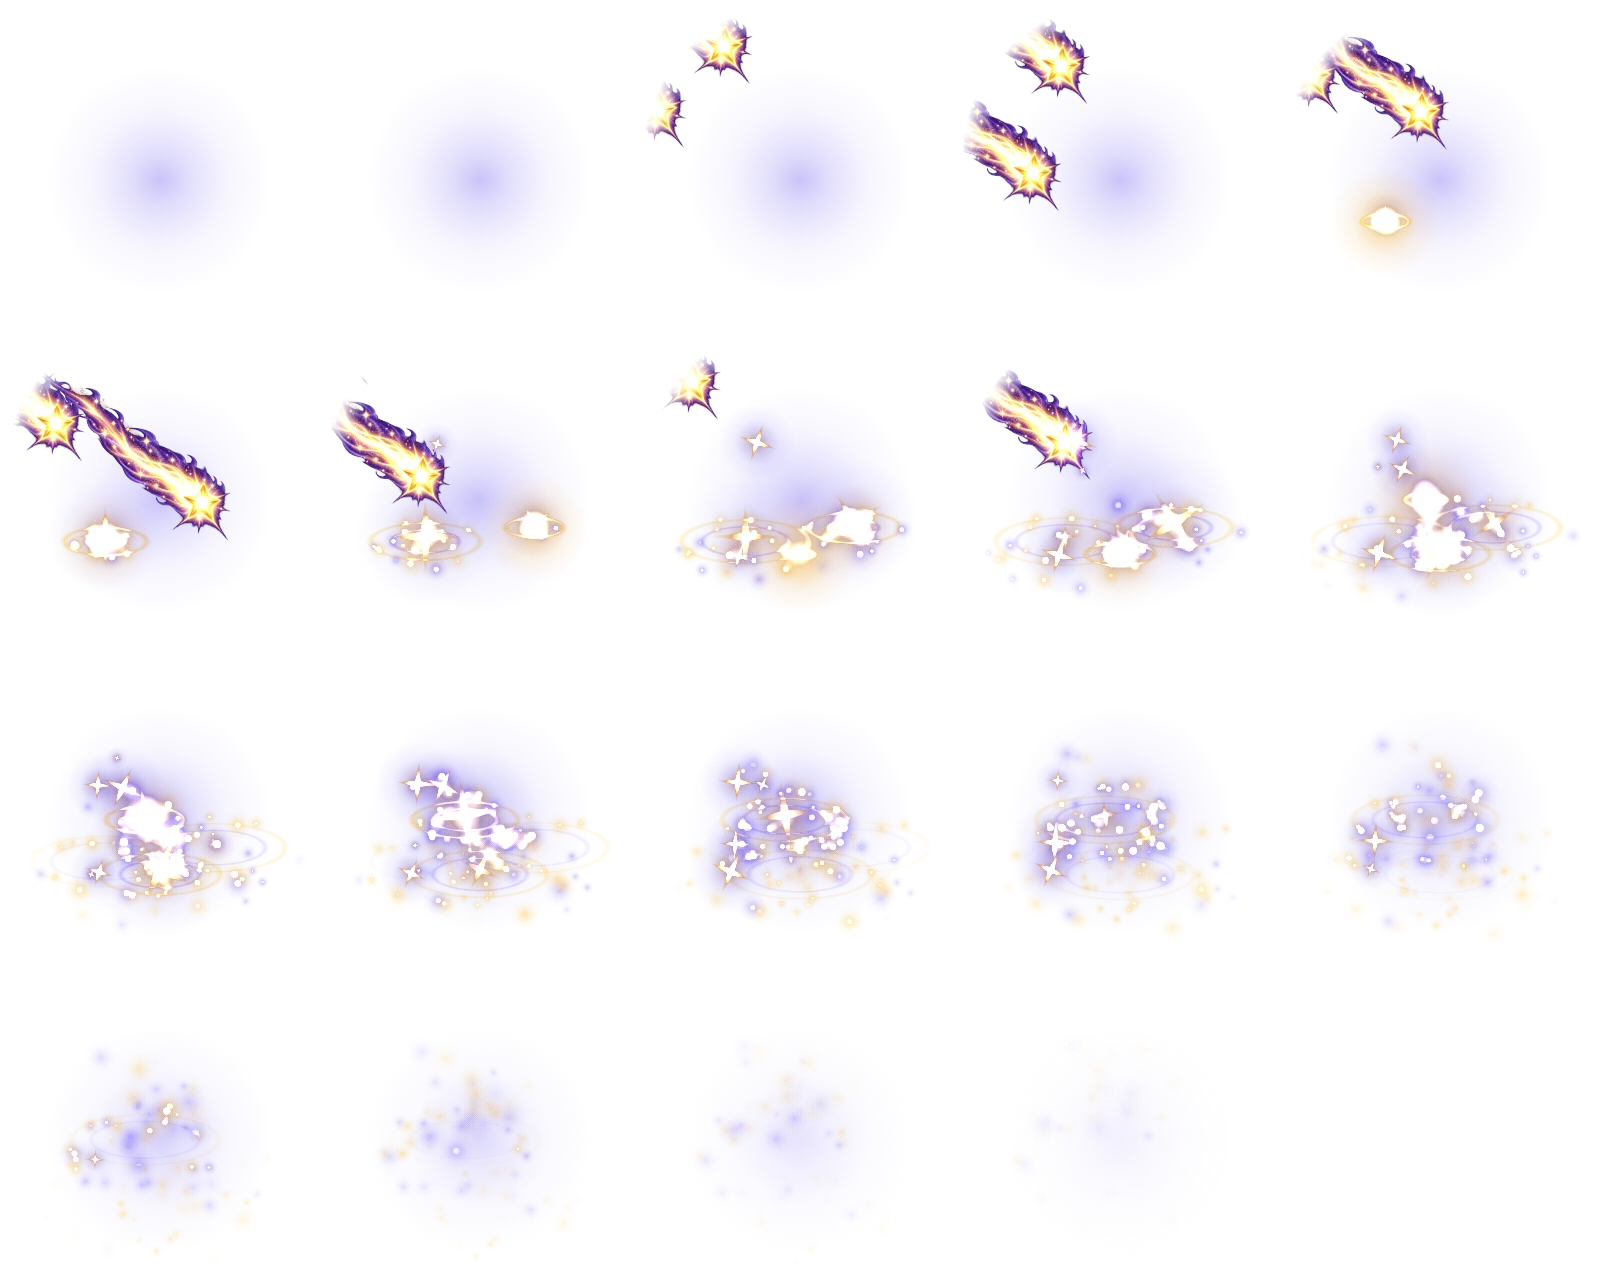
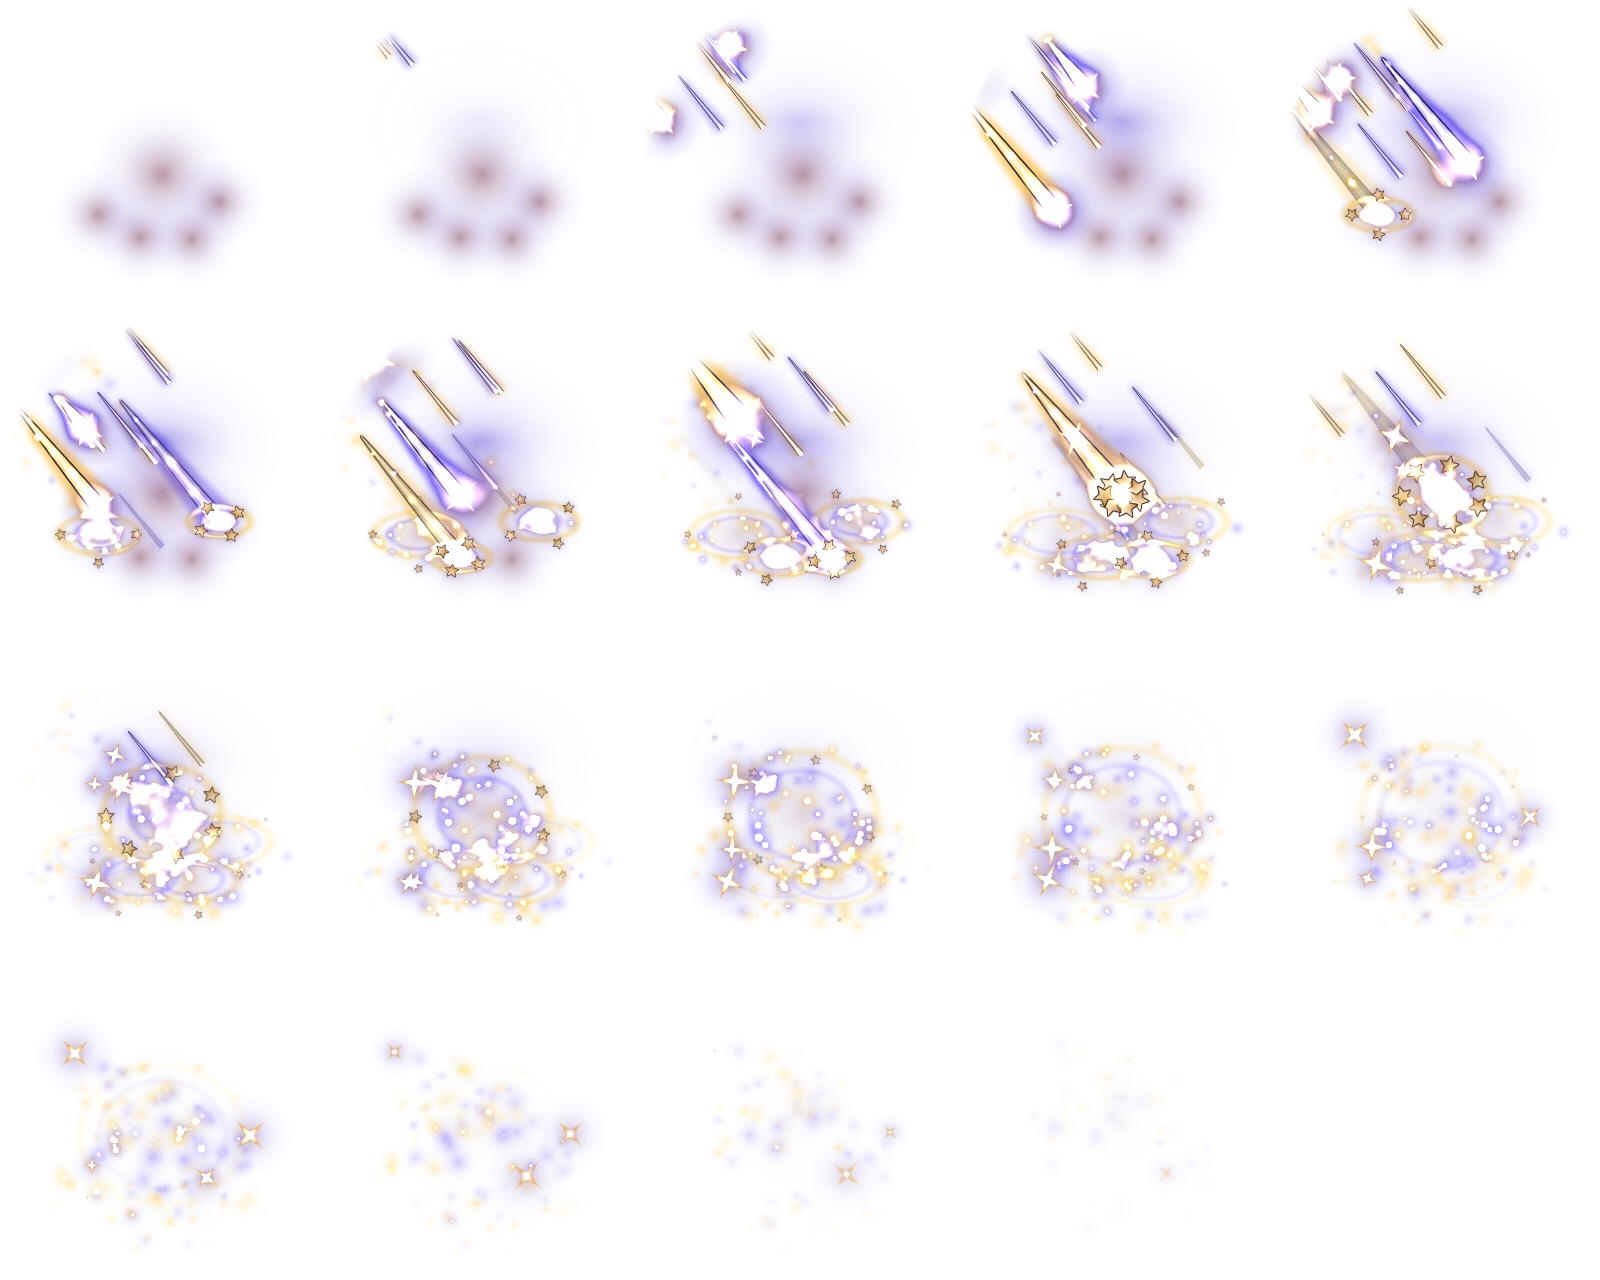
Astrologer starfall: code-only comet shower in the monk style
Five glowing star heads streak down on thick amber/violet light tails and
land around the cell with flashes, rings and little five-point stars, the
last one big in the middle, while thin shooting stars rain behind them and
star dust swirls up. The Codex comet picture is no longer used.

diff --git a/src/art/pxf/requests.md b/src/art/pxf/requests.md
@@ -94,7 +94,7 @@ Lim 「직업별 스킬별로 이펙트가 달라야 하는데 중복되는 게 
 | monk-soothe | 점점 납작해지는 가로 물결선 (그림 없이 코드 빛 띠, 머리 위 · 발밑) | monk-wind | 비스듬히 쓸어 올라가며 끝이 둥글게 말리는 바람 띠 셋과 꽃잎 빛 (그림 없이 코드) |
 | monk-tea | 발밑 찻잔 테 빛 고리와 S자로 오르는 김 (그림 없이 코드) | astro-star | 머리 위에서 도는 오각 별과 떨어지는 빛 방울 (Codex 오각 별) |
 | astro-twinkle | 삼각형으로 차례로 깜빡이는 작은 별 셋 (Codex 네 갈래 별) | astro-mark | 머리 위에 점 셋이 선으로 이어지는 작은 별자리 (Codex 네 갈래 별) |
-| astro-clear | 위아래에서 가운데로 모였다 터지는 별가루 (Codex 여섯 갈래 별) | astro-fall | 비스듬히 떨어져 바닥에서 튀는 작은 별 셋 (Codex 꼬리별) |
+| astro-clear | 위아래에서 가운데로 모였다 터지는 별가루 (Codex 여섯 갈래 별) | astro-fall | 빛 꼬리를 끌며 비스듬히 쏟아져 꽂히는 별 머리 다섯과 가는 별똥별 빗발 (그림 없이 코드, 2026-10-19) |
 | astro-sleep | 몸을 휘감아 오르는 밤빛 별가루 띠 둘과 흔들리는 초승달 (Codex 초승달, 2026-10-19 고치 그림 뺌) | astro-memory | 한 바퀴 도는 시계 바늘 (끝에 별) (Codex 금빛 바늘) |
 | astro-polaris | 위에서 내려와 커졌다가 작은 별들로 터지는 큰 네 갈래 별 (Codex 북극성) | warder-seal | 머리 위에 엇갈려 그어지는 X자 인장 (Codex X자 인장) |
 |  |  | warder-barrier | 몸 앞을 둥글게 감싸는 얇은 빛 막과 흐르는 물결 결 (Codex 빛 막) |
@@ -188,7 +188,7 @@ Lim 「직업별 스킬별로 이펙트가 달라야 하는데 중복되는 게 
 | twinkle 반짝임 | astro-twinkle | 대상 칸 | **모양: 삼각형으로 차례로 깜빡이는 작은 별 셋.** 위 · 왼쪽 아래 · 오른쪽 아래에 작은 네 갈래 별이 차례로 반짝 켜졌다 꺼짐. 오른쪽 위 한 점 금지 (치명타와 겹침). 16프레임, 맞는 순간 2 |
 | starMark 별자리 표식 | astro-mark | 대상 칸 | **모양: 머리 위에 점 셋이 선으로 이어지는 작은 별자리.** 머리 위 세 점이 차례로 켜지며 가는 선으로 이어짐. 16프레임 안팎, 맞는 순간 4 |
 | clearStar 맑은 별빛 | astro-clear | 대상 칸 | **모양: 위아래에서 가운데로 모였다 터지는 별가루.** 별가루가 위아래에서 몸 가운데로 빨려 들어와 육각 별로 터지고 어두운 조각이 흩어짐. 고리 · 물방울 · 나선 금지 (공통 해제 · 정화 · 소생과 겹침). 18프레임, 맞는 순간 6 |
-| starfall 별비 | astro-fall | 회복한 칸마다 | **모양: 비스듬히 떨어져 바닥에서 튀는 작은 별 셋.** 왼쪽 위에서 오각 별 셋이 차례로 비스듬히 떨어져 발밑에서 작은 불티로 튐. 곧은 빛 비 · 빗줄기 금지 (신성화 · 소나기와 겹침). 20프레임, 맞는 순간 6 |
+| starfall 별비 | astro-fall | 회복한 칸마다 | **모양: 빛 꼬리를 끌며 비스듬히 쏟아져 꽂히는 별 머리 다섯과 가는 별똥별 빗발.** (2026-10-19 Lim 「별비가 아쉽다」, 수도사처럼 그림 없이 코드) 빛나는 별 머리 다섯이 굵은 호박 · 보랏빛 꼬리를 끌며 차례로 칸 곳곳에 꽂히고 뒤로 가는 별똥별이 빗발처럼 쏟아지며, 닿는 자리마다 섬광 · 고리 · 작은 오각 별이 터지고 마지막 별이 가운데에 크게 떨어짐. 20프레임 |
 | starSleep 별의 잠 | astro-sleep | 대상 칸 | **모양: 몸을 휘감아 오르는 밤빛 별가루 띠 둘과 흔들리는 초승달.** (2026-10-19 Lim 「잠 같은 경우처럼 이미지 한장이 유지되는 경우는 피하자」: 예전 고치 그림을 뺌) 밤빛 보라 별가루 띠 둘이 발밑에서 나선으로 몸을 휘감아 올라 머리 위에서 만나며 번쩍 닫히고, 초승달이 흔들리며 떠올라 사라지고, 작은 별이 몸 둘레를 돌고 보랏빛 별가루가 내려앉음. 걸린 동안은 고치 그림 없이 별빛 루프 (astro-sleep-loop) + 왼쪽 보라 시간 원. 24프레임, 맞는 순간 6 |
 | starMemory 별의 기억 | astro-memory | 파티 전원 칸 | **모양: 한 바퀴 도는 시계 바늘 (끝에 별).** 가운데 축에서 뻗은 바늘이 끝에 별을 달고 한 바퀴 돌며 옅은 궤적을 남기고, 다 돌면 별이 한 번 커짐. 고리 테두리 금지 (기원과 겹침). 여러 칸 동시라 가볍게. 22프레임, 맞는 순간 6 |
 | polaris 북극성 | astro-polaris | 대상 칸 | **모양: 위에서 내려와 커졌다가 작은 별들로 터지는 큰 네 갈래 별.** 큰 네 갈래 별이 위에서 내려와 몸 위에서 크게 빛난 뒤 작은 별 조각으로 흩어짐. 햇살 빛살 금지 (평온과 겹침). 22프레임, 맞는 순간 6 |
